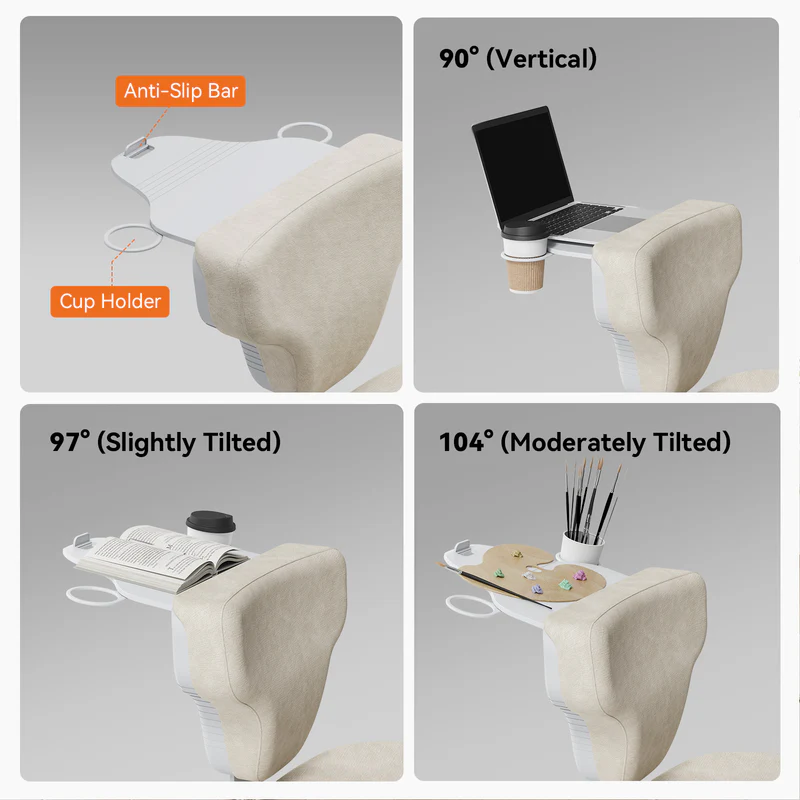
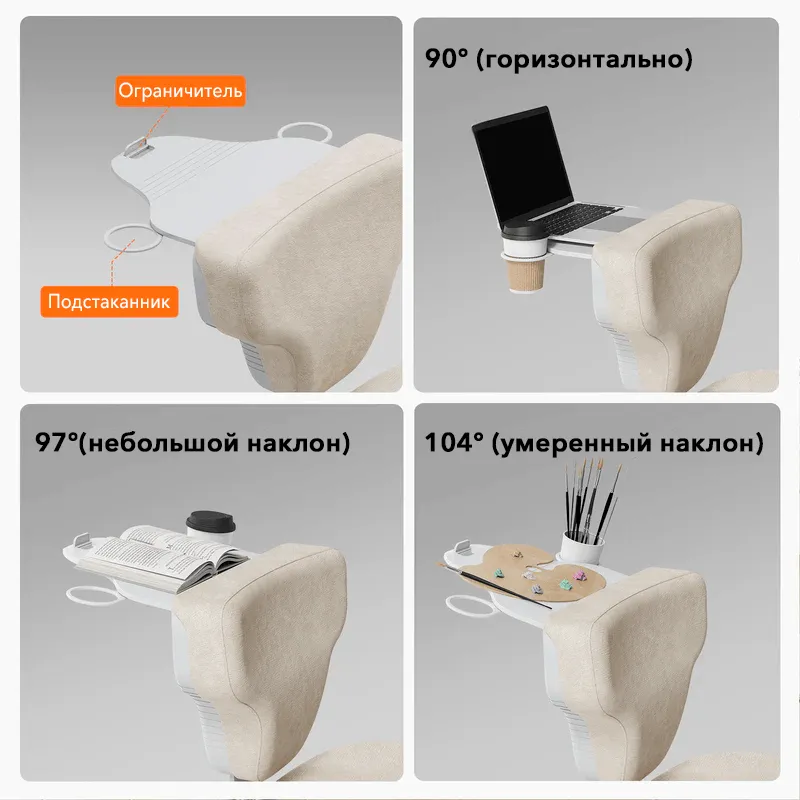
feat: translation of page fg-shortz-f1-ow done

diff --git a/pages/fg-shortz-f1-ow/index.html b/pages/fg-shortz-f1-ow/index.html
@@ -208,8 +208,6 @@
                                 title="Кресло FoxGear Shortz" data-index="6">
                             <img class="hero-single__gallery-image" src="images/about/08.webp"
                                 title="Кресло FoxGear Shortz" data-index="7">
-                            <img class="hero-single__gallery-image" src="images/about/09.webp"
-                                title="Кресло FoxGear Shortz" data-index="8">
                         </div>
                     </div>
                     <div class="hero-single__images owl-carousel owl-theme">
@@ -236,9 +234,6 @@
                         </div>
                         <div class="hero-single__image">
                             <img class="hero-single__img" src="images/about/08.webp" title="Кресло FoxGear Shortz">
-                        </div>
-                        <div class="hero-single__image">
-                            <img class="hero-single__img" src="images/about/09.webp" title="Кресло FoxGear Shortz">
                         </div>
                     </div>
                     <div class="panel-single hero-single__panel">
@@ -267,18 +262,26 @@
                                     </div>
                                     <div class="accordion__item-content">
                                         <ul class="accordion__item-list">
-                                            <li class="accordion__item-list-item">Built-in retractable laptop tray &
-                                                hidden cup holder create a mobile workstation.
+                                            <li class="accordion__item-list-item">
+                                                Встроенный складывающийся столик для ноутбука и скрытые подстаканники
+                                                создают настоящее мобильное рабочее место
                                             </li>
-                                            <li class="accordion__item-list-item">Sit upright, cross-legged, or reclined
-                                                – the chair adapts to your every move.</li>
-                                            <li class="accordion__item-list-item">Easily transition between focused work
-                                                and comfortable relaxation.</li>
-                                            <li class="accordion__item-list-item">5-Year Warranty + 60-Day Trial: Try it
-                                                at home; free returns/exchanges within 60 days.</li>
-                                            <li class="accordion__item-list-item">Expert-Backed: Recommended by
-                                                cervical-spine specialists and physical therapists for multi-posture
-                                                use.</li>
+                                            <li class="accordion__item-list-item">
+                                                Сидите прямо, скрестив ноги или отклонив спинку - кресло адаптируется к
+                                                каждому вашему движению.
+                                            </li>
+                                            <li class="accordion__item-list-item">
+                                                Лёгкий переход от сосредоточенной работы к комфортному расслаблению и
+                                                обратно.
+                                            </li>
+                                            <li class="accordion__item-list-item">
+                                                Гарантия 1 год, доставка по всей территории России.
+
+                                            </li>
+                                            <li class="accordion__item-list-item">
+                                                Эргономическое кресло-трансформер рекомендуют эксперты-ортопеды,
+                                                специалисты по болезням позвоночника и физиотерапевты.
+                                            </li>
                                         </ul>
                                     </div>
                                 </div>
@@ -402,10 +405,11 @@
                 </div>
             </div>
             <section class="section">
-                <h2 class="section-title">Freedom to Choose Any Posture</h2>
+                <h2 class="section-title">Свобода выбора позы</h2>
                 <p class="section-p section-p_center section-p_limited">
-                    The Newtral Freedom-X chair breaks through the limitations of traditional chairs. Its armless design
-                    allows you to easily change positions whether you are working, reading or meditating.
+                    Кресло-трансформер FoxGear Shortz преодолевает ограничения традиционных кресел. Конструкция без
+                    подлокотников позволяет легко менять положение в зависимости от вашей деятельности - работа, чтение
+                    или медитация.
                 </p>
                 <div class="single-slider single-slider_4cards">
                     <div class="single-slider__cards">
@@ -429,10 +433,11 @@
                 </div>
             </section>
             <section class="section">
-                <h2 class="section-title">Freedom to Work Anywhere at Home</h2>
+                <h2 class="section-title">Свобода работы из любого места вашего дома</h2>
                 <p class="section-p section-p_center section-p_limited">
-                    The Freedom-X home chair is designed for diverse home needs, functioning like a movable comfort
-                    station that supports both productivity and relaxation anywhere at home
+                    Кресло FoxGear Shortz - это универсальное кресло для разных ситуаций. Оно выполняет функцию
+                    комфортного мобильного рабочего места, способствуя и продуктивности, и отдыху в любой точке вашего
+                    дома.
                 </p>
                 <div class="single-slider">
                     <div class="single-slider__cards">
@@ -441,10 +446,10 @@
                                 alt="Кресло FoxGear Shortz для офиса">
                             <div class="card-single__content">
                                 <div class="card-single__title">
-                                    Bedroom
+                                    Спальня
                                 </div>
                                 <div class="card-single__description">
-                                    Morning productivity, ready to capture inspiration anytime.
+                                    Утренняя продуктивность, постоянная готовность поймать вдохновение.
                                 </div>
                             </div>
                         </div>
@@ -453,10 +458,10 @@
                                 alt="Кресло FoxGear Shortz для работы">
                             <div class="card-single__content">
                                 <div class="card-single__title">
-                                    Dressing table
+                                    Туалетный столик
                                 </div>
                                 <div class="card-single__description">
-                                    Enjoy refinement moment, comfortable and graceful every moment.
+                                    Наслаждайтесь моментами радости, удобством и уходом за собой.
                                 </div>
                             </div>
                         </div>
@@ -465,10 +470,10 @@
                                 alt="Кресло FoxGear Shortz для учебы">
                             <div class="card-single__content">
                                 <div class="card-single__title">
-                                    Study room
+                                    Учебная комната
                                 </div>
                                 <div class="card-single__description">
-                                    Activate focus mode, undisturbed deep work and study.
+                                    Активирует режим концентрации, не давая отвлечься от работы или учебы.
                                 </div>
                             </div>
                         </div>
@@ -492,11 +497,13 @@
                     </div>
 
                     <div class="grid-image-text__text">
-                        <h2 class="section-title grid-image-text__title">Everything Within Easy Reach</h2>
+                        <h2 class="section-title grid-image-text__title">Всё в зоне досягаемости</h2>
                         <p class="grid-image-text__description">
-                            The built-in laptop tray offers 90°, 97°, and 104° adjustments to perfectly support work,
-                            reading, and viewing. With a 66lbs load capacity, anti-slip slot, and hidden cup holders, it
-                            securely organizes your devices and essentials for uninterrupted focus.</p>
+                            Встроенный столик для ноутбука можно развернуть на 90°, 97°, и 104°, он прекрасно
+                            поддерживает предметы, необходимые для работы, чтения и просмотра видео. Способный
+                            выдерживать 30 кг, оснащённый ограничителем и скрытыми подстаканниками, он позволяет надёжно
+                            расположить ваши устройства и всё необходимое для работы без отвлечения на посторонние вещи.
+                        </p>
                     </div>
                 </div>
                 <div class="grid-image-text">
@@ -506,23 +513,24 @@
                     </div>
 
                     <div class="grid-image-text__text">
-                        <h2 class="section-title grid-image-text__title">7 Adjustable Backrest Height Levels</h2>
+                        <h2 class="section-title grid-image-text__title">7 уровней регулировки высоты спинки</h2>
                         <p class="grid-image-text__description">
-                            The chair backrest offers 7 height levels with a total of 3' of adjustment, effortlessly
-                            matching different body types for a personalized fit. The unique T-shaped backrest design
-                            closely follows the natural curve of your back, providing optimal support and lasting
-                            comfort even during long sitting sessions.</p>
+                            Спинку стула можно установить на один из 7 уровней высоты в диапазоне регулировки 7,6 см,
+                            без особых усилий адаптируя под свой рост и вес. Уникальная Т-образная форма спинки точно
+                            следует естественным изгибам позвоночника, обеспечивая оптимальную поддержку, долговременный
+                            комфорт даже при длительном сидении.
+                        </p>
                     </div>
                 </div>
             </section>
             <section class="section" id="design">
-                <h2 class="section-title">Switch Seamlessly Between Work and Relaxation</h2>
+                <h2 class="section-title">Незаметно переходите от работы к отдыху и обратно</h2>
                 <p class="section-p section-p_center">
-                    Freedom-X ergonomic chair feature a 90°-105° recline system, providing not just an upright posture
-                    but also a comfortable reclining position. Whether focusing on work or taking a break, you can
-                    always find your ideal posture. With simple adjustments, you can unlock the backrest recline
-                    tension, freely switch between different modes, and meet your sitting posture needs throughout the
-                    day.
+                    Эргономичное кресло FoxGear Shortz имеет систему отклонения спинки на 90&deg;-105&deg;, поддерживая
+                    вас не только в позу сидя прямо, но и позволяя комфортно отклонить спинку. Не важно, сосредоточены
+                    ли вы на работе или же делаете паузу, вы всегда сможете найти для себя идеальное положение. Простая
+                    регулировка позволяет разблокировать спинку, легко переключаться между различными видами
+                    деятельности, удовлетворяя ваши потребности в течение всего дня.
                 </p>
                 <div class="block-image">
                     <picture>
@@ -533,46 +541,46 @@
                 </div>
             </section>
             <section class="section">
-                <h2 class="section-title section-title_left">High-Quality Materials Satisfy Your<br>Pursuit of a Better
-                    Life</h2>
+                <h2 class="section-title section-title_left">Высококачественные материалы для тех,<br>кто стремится к
+                    комфортной жизни</h2>
                 <div class="single-slider single-slider_4cards">
                     <div class="single-slider__cards">
                         <div class="card-single single-slider__card">
                             <img class="card-single__image" src="images/product/11.webp"
-                                alt="Кресло FoxGear Shortz для офиса">
+                                alt="Кресло FoxGear Shortz с газлифтом класса 4">
                             <div class="card-single__content">
                                 <div class="card-single__title">
-                                    Classe 4 SGS-Certified Gas Lift
+                                    Газлифт, сертифицированный SGS по классу 4
                                 </div>
                                 <div class="card-single__description">
-                                    Certified by BIFMA and EN1335, this high-quality gas lift ensures smooth height
-                                    adjustment, durability and reliability.
+                                    Сертифицированный BIFMA и EN1335, этот высококачественный газлифт гарантирует
+                                    плавное изменение высоты, надёжность и долговечность
                                 </div>
                             </div>
                         </div>
                         <div class="card-single single-slider__card">
                             <img class="card-single__image" src="images/product/12.webp"
-                                alt="Кресло FoxGear Shortz для работы">
+                                alt="Кресло FoxGear Shortz с прочной крестовиной и бесшумными роликами">
                             <div class="card-single__content">
                                 <div class="card-single__title">
-                                    Stable Base & Quiet Wheels
+                                    Прочная крестовина и бесшумные ролики
                                 </div>
                                 <div class="card-single__description">
-                                    The steel base offers sturdy support, while PU wheels glide quietly on tile, wood,
-                                    and carpet surfaces.
+                                    Стальная крестовина обеспечивает надёжную опору, а полипропиленовые ролики бесшумно
+                                    скользят по плитке, паркету и ковровому покрытию.
                                 </div>
                             </div>
                         </div>
                         <div class="card-single single-slider__card">
                             <img class="card-single__image" src="images/product/13.webp"
-                                alt="Кресло FoxGear Shortz для учебы">
+                                alt="Кресло FoxGear Shortz с подушкой высокой плотности">
                             <div class="card-single__content">
                                 <div class="card-single__title">
-                                    High-Density Cushion
+                                    Подушка высокой плотности
                                 </div>
                                 <div class="card-single__description">
-                                    Soft, easy-clean fabric and supportive high-density foam contour to your body for
-                                    all-day comfort.
+                                    Мягкая, легко чистящая ткань и поддерживающая контурная подушка высокой плотности
+                                    обеспечивают комфорт в течение всего дня.
                                 </div>
                             </div>
                         </div>
@@ -581,11 +589,11 @@
                                 alt="Кресло FoxGear Shortz для учебы">
                             <div class="card-single__content">
                                 <div class="card-single__title">
-                                    U-Shaped Ergonomic Seat
+                                    Эргономичное U-образное сиденье
                                 </div>
                                 <div class="card-single__description">
-                                    The 3.7-inch U-shaped seat follows your body’s curves for breathable,
-                                    premium-feeling support.
+                                    U-образное сиденье толщиной 9,5-мм повторяет обводы вашего тела, даря комфорт,
+                                    вентиляцию и ощущение премиального качества.
                                 </div>
                             </div>
                         </div>
@@ -605,32 +613,36 @@
                         <table class="product-specs__table-content">
                             <tbody>
                                 <tr class="product-specs__row">
-                                    <th class="product-specs__th">Высота сиденья</th>
-                                    <td class="product-specs__td">62 - 79 см</td>
+                                    <th class="product-specs__th">Высота кресла</th>
+                                    <td class="product-specs__td">82 - 91 см</td>
                                 </tr>
                                 <tr class="product-specs__row">
                                     <th class="product-specs__th">Наклон спинки</th>
-                                    <td class="product-specs__td">до 126&deg;</td>
+                                    <td class="product-specs__td">90&deg; - 105&deg;</td>
                                 </tr>
                                 <tr class="product-specs__row">
-                                    <th class="product-specs__th">Высота кресла</th>
-                                    <td class="product-specs__td">111 - 140 см</td>
+                                    <th class="product-specs__th">Диапазон регулировки высоты спинки</th>
+                                    <td class="product-specs__td">7,6 см</td>
+                                </tr>
+                                <tr class="product-specs__row">
+                                    <th class="product-specs__th">Углы установки столика для ноутбука</th>
+                                    <td class="product-specs__td">90&deg; - 97&deg; - 104&deg;</td>
                                 </tr>
                                 <tr class="product-specs__row">
                                     <th class="product-specs__th">Максимальная нагрузка</th>
-                                    <td class="product-specs__td">136 кг</td>
+                                    <td class="product-specs__td">150 кг</td>
                                 </tr>
                                 <tr class="product-specs__row">
                                     <th class="product-specs__th">Вес нетто</th>
-                                    <td class="product-specs__td">21,5 кг</td>
+                                    <td class="product-specs__td">17,5 кг</td>
                                 </tr>
                                 <tr class="product-specs__row">
                                     <th class="product-specs__th">Вес брутто</th>
-                                    <td class="product-specs__td">23,5 кг</td>
+                                    <td class="product-specs__td">19</td>
                                 </tr>
                                 <tr class="product-specs__row">
                                     <th class="product-specs__th">Транспортировочные размеры</th>
-                                    <td class="product-specs__td">54x51x44 см</td>
+                                    <td class="product-specs__td">56x32x52 см</td>
                                 </tr>
                             </tbody>
                         </table>
@@ -797,45 +809,48 @@
                             Вопросы и ответы
                         </h2>
                         <div>
-                            Кресло <strong style="white-space: nowrap;">FoxGear Shortz</strong> combines ergonomic
-                            design with playful functionality, perfectly adapting to home office, leisure and family
-                            time—bringing innovation and joy to your daily life.
+                            Кресло <strong style="white-space: nowrap;">FoxGear Shortz</strong> сочетает в себе
+                            эргономичный дизайн и богатый функционал, превосходно адаптируясь к домашнему офису, отдыху
+                            или времени, проводимого с семьёй, привнося новые ощущения и радость в вашу повседневную
+                            жизнь.
                         </div>
                     </div>
                     <div class="accordion faq__accordion">
                         <div class="accordion__content">
                             <div class="accordion__item">
                                 <div class="accordion__item-title">
-                                    Подойдёт ли это кресло подвижным и активным пользователям, которым нелегко усидеть в
-                                    одной позе?
+                                    В чем различие моделей F1 и F2 кресла FoxGear Shortz?
                                 </div>
                                 <div class="accordion__item-content">
-                                    Ну конечно! Конструкция кресла FoxGear Shortz позволяет удобно располагаться в нём
-                                    в различных позах и легко их менять, сидеть ногу на ногу, ёрзать, откидывать спинку.
-                                    Более того, оно подойдёт даже людям с СДВГ и тем, кто не может долго неподвижно
-                                    сидеть в одной позе.
+                                    <p>1. Модель F2 позволяет вам <b>регулировать и фиксировать угол установки спинки</b>, в то время как модель F1 позволяет только <b>регулировать угол наклона спинки, не фиксируя его</b>.</p>
+                                    <p>2. Модель F2 имеет <b>регулировку глубины сиденья</b>, а в модели F1 <b>регулировка глубины сиденья отсутствует</b>.</p>
+                                    <p>3. В модели F2 используются <b>ролики с пластиковыми спицами</b>, которые очень тихо скользят по полу и не поцарапают ваше дорогостоящее напольное покрытие, а в модели F1 используются <b>обычные полиуретановые ролики</b>.</p>
+
+                                    <p>В обеих моделях кресла Foxgear Shortz используется <b>гидравлический газлифт класса 4 южнокорейского производства</b>. Высококачественный газлифт гарантирует вашу безопасность и обеспечивает наивысший уровень комфорта.</p>
                                 </div>
                             </div>
                             <div class="accordion__item">
                                 <div class="accordion__item-title">
-                                    Насколько легко собрать кресло и начать им пользоваться?
+                                    Что делает кресло FoxGear Shortz таким уникальным?
                                 </div>
                                 <div class="accordion__item-content">
-                                    Как правило, сборка этого кресла пользователями, которые не имеют навыков в сборке
-                                    мебели, занимает 20-25 минут, ведь в комплект кресла Foxgear Shortz весь
-                                    необходимый инструмент и подробная инструкция по сборке. Узлы кресла легко
-                                    вставляются друг в друга и защёлкиваются на месте, сложные механизмы отсутствуют,
-                                    что делает процесс сборки чрезвычайно простым.
+                                    <p>Встроенный столик на спинке кресла превращает его в мобильное рабочее место,
+                                    позволяя работать из любого места вашего дома. Регулируемая конструкция
+                                    подлокотников облегчает смену позы и обеспечивает комфорт в разных положениях. Работаете ли вы,
+                                    играете или отдыхаете — в кресле FoxGear Shortz вы всегда сможете найти
+                                    наиболее удобную посадку.</p>
+
+                                    <p>Кроме того, при опущенных подлокотниках кресло открывает возможности для приятного
+                                    взаимодействия: на подлокотниках может удобно расположиться ваш питомец или ребёнок,
+                                    чтобы работать или играть вместе с вами, создавая тёплую и уютную атмосферу общения.</p>
                                 </div>
                             </div>
                             <div class="accordion__item">
                                 <div class="accordion__item-title">
-                                    Можно ли установить на это кресло столик для ноутбука?
+                                    Какой максимальный вес могут выдержать подлокотники кресла FoxGear Shortz?
                                 </div>
                                 <div class="accordion__item-content">
-                                    Да, разумеется. Это кресло предусматривает установку ноутбучного столика для
-                                    ноутбука, планшета, телефона, что превращает кресло в настоящий комфортный
-                                    мини-офис.
+                                    Подлокотники способны выдерживать <b>до 100 кг статичного давления</b>, то есть даже дети или домашние животные могут безопасно располагаться на них. Однако, в целях безопасности, <b>не позволяйте им прыгать на подлокотниках</b>.
                                 </div>
                             </div>
                             <div class="accordion__item">
@@ -942,7 +957,7 @@
                         </a>
                     </div>
                     <div class="footer__menu-item">
-                        <a class="footer__menu-link" href="pages/netz-one/index.html"
+                        <a class="footer__menu-link" href="pages/shortz/index.html"
                             title="Смотреть кресло Netz модель shortz">
                             Netz модель Shortz
                         </a>
